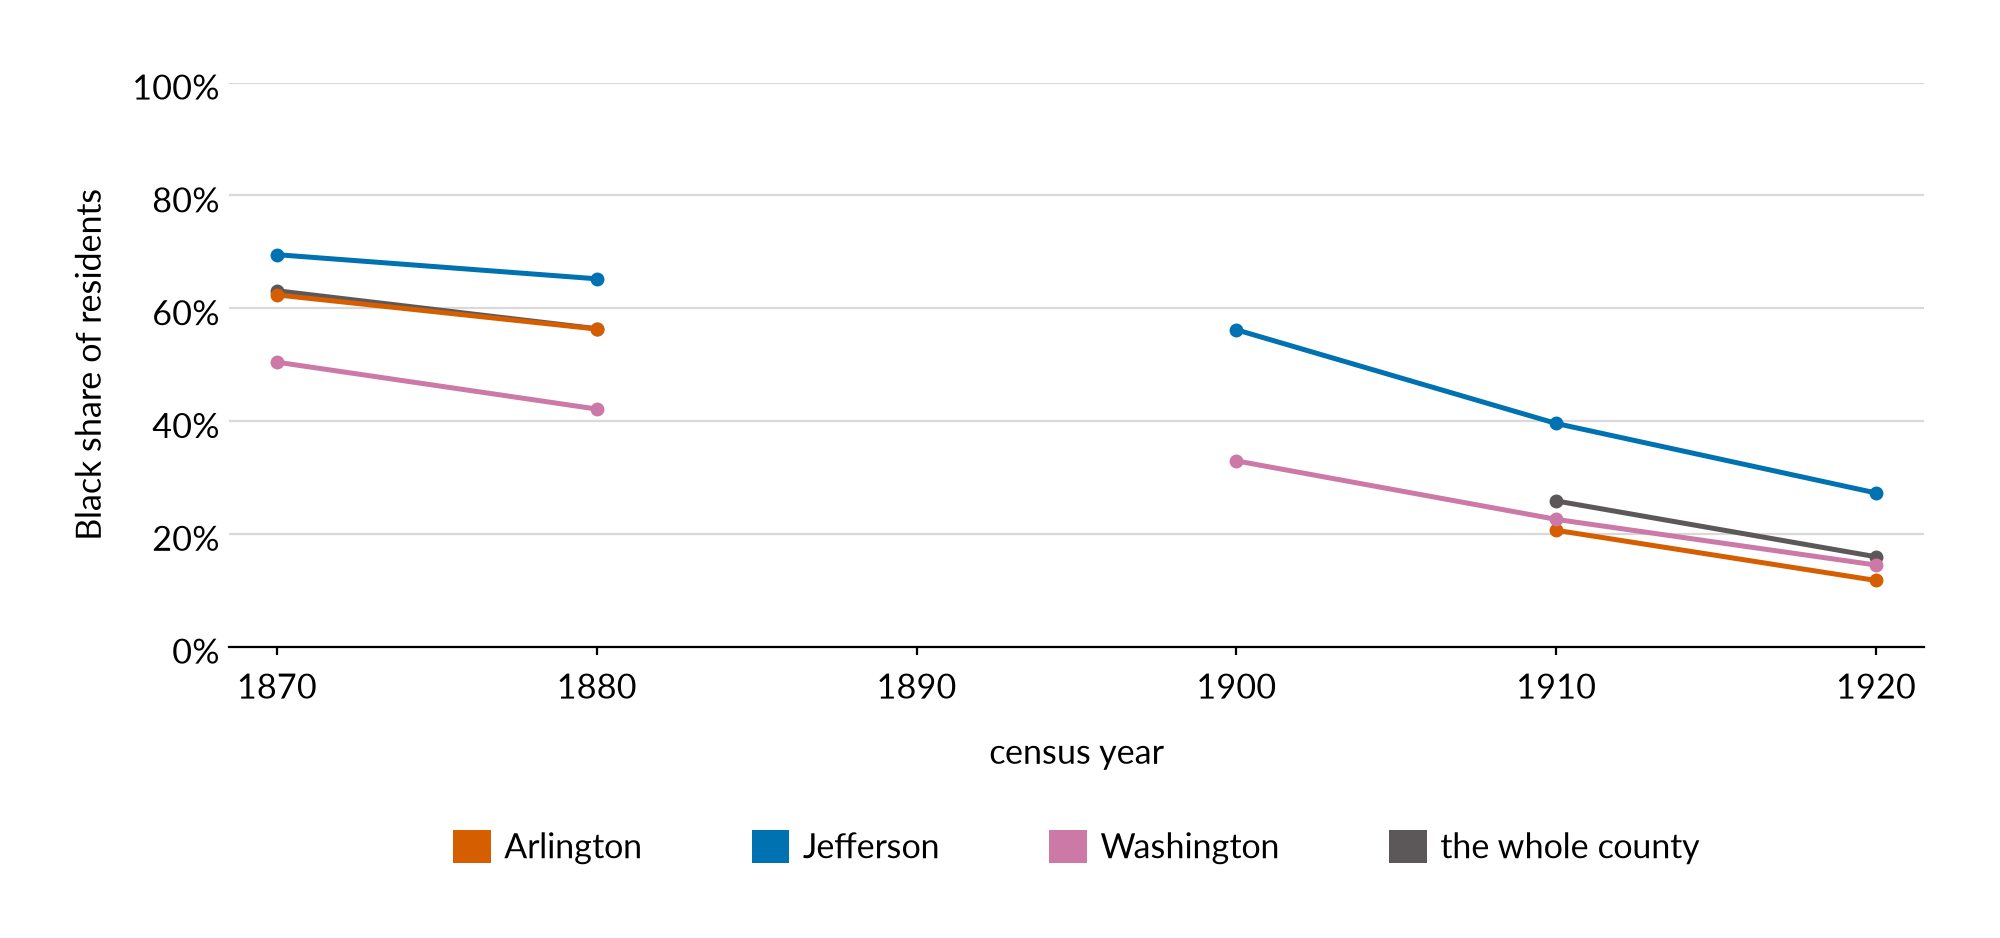
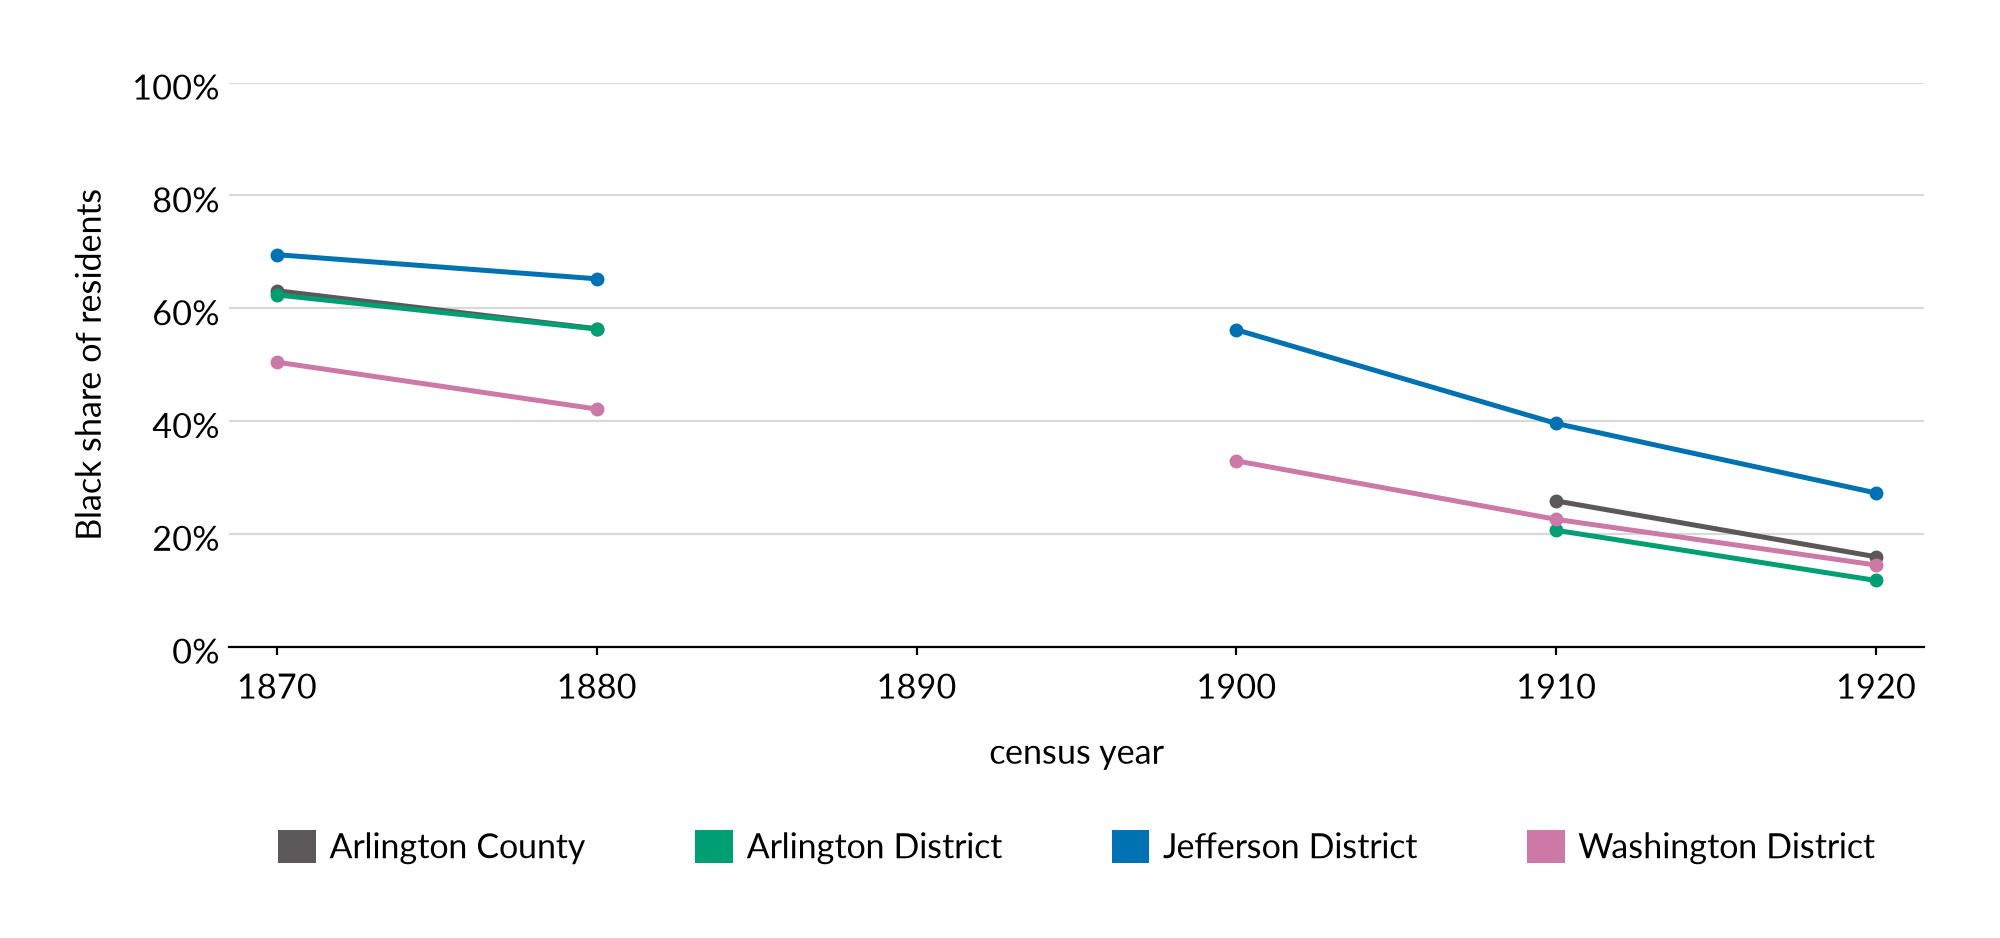
Figure 5: Arlington District takes bluish green, the county leads the legend, and the lines are named Arlington County and the three Districts

diff --git a/style/style.py b/style/style.py
@@ -123,11 +123,11 @@ RESIDENCE["none"] = ("no location", UNRECORDED)
 # reference: three unordered places, so Okabe-Ito, and the county in the
 # reference neutral the growth and peer figures use. See docs/figures.md.
 DISTRICTS = {
-    "Arlington":  ("Arlington", OKABE_ITO["vermilion"]),
-    "Jefferson":  ("Jefferson", OKABE_ITO["blue"]),
-    "Washington": ("Washington", OKABE_ITO["reddish_purple"]),
+    "Arlington":  ("Arlington District", OKABE_ITO["bluish_green"]),
+    "Jefferson":  ("Jefferson District", OKABE_ITO["blue"]),
+    "Washington": ("Washington District", OKABE_ITO["reddish_purple"]),
 }
-WHOLE_COUNTY = ("the whole county", DARK)
+WHOLE_COUNTY = ("Arlington County", DARK)
 
 PRESIDENT = ("voted for President", DARK)
 CYCLE = {

diff --git a/code/analysis/residents_by_district_race.py b/code/analysis/residents_by_district_race.py
@@ -50,6 +50,6 @@ for profile in style.PROFILES:
     charts.lines(ax, s.index.to_numpy(), charts.series(s, style.DISTRICTS))
     charts.shares(ax, label="Black share of residents")
     charts.years(ax, int(s.index.min()), int(s.index.max()), step=10)
-    charts.legend(fig, {**{l: c for l, c in style.DISTRICTS.values()},
-                        style.WHOLE_COUNTY[0]: style.WHOLE_COUNTY[1]})
+    charts.legend(fig, {style.WHOLE_COUNTY[0]: style.WHOLE_COUNTY[1],
+                        **{l: c for l, c in style.DISTRICTS.values()}})
     paths.save(fig, profile)

diff --git a/paper/punchlist.md b/paper/punchlist.md
@@ -19,7 +19,6 @@ stays, with a one-line reason under it.
 - Figure 3 (county by race) legend: consider alphabetical order (Asian & Pacific Islander first), since nothing says why Black comes first. The figures skill says a legend follows stacking order, and docs/figures.md sets the stack with the largest group on top; if the legend goes alphabetical, decide whether the stack does too, and apply the same rule to Figure 4 and the gender figure.
 - Race: restructure the Board half around the question. Preview the argument: here are the forces that may have been at work (the hypotheses), then investigate each. "Disfranchisement weighs most" is a terrible sentence; no sentence of that shape anywhere.
 - A map of the three magisterial districts is needed, perhaps on the same page as Figure 5 (Black share by district). A new figure; needs a boundary source (docs/residents.md has what places each census's enumeration districts).
-- Figure 5 legend order: Arlington County, Arlington District, Jefferson District, Washington District. Arlington District must not be orange or vermilion, which marks the county as a whole elsewhere (the per-seat line, the peer figures); pick another Okabe-Ito hue in style.DISTRICTS and docs/figures.md.
 - Age: Figures 7 and 8 (county by age; Board by age) go on the same page so they compare directly.
 - Age: soften the Board half. Be cautious about saying the Board is not representative by age: no one under 18 can serve, so the comparison base is adults (or eligible voters), and age correlates with knowledge and professional skill, so the claim needs a conversation before it is made strongly. If the claim stays, it needs a figure that makes the comparison directly, probably in a different format from the two now in the section. (Decision; tracker row age-board-against-county.)
 - A.6 Politics may not earn its place as a section. Party likely belongs in the election-method section; turnout, at least before 1932, may belong in Race, where it has to show that voter suppression meant fewer people were choosing at all. Treat A.6 as a holding pen until those homes exist. (Structural; with the election-method decision, tracker row election-method-section.)

diff --git a/docs/figures.md b/docs/figures.md
@@ -123,10 +123,19 @@ a rank. A figure never defines a ramp of its own.
   the palette's other oranges and greys already mean a party, the residual
   or no evidence.
 - **The magisterial districts.** Three unordered places, so Okabe-Ito:
-  Arlington vermilion, Jefferson blue, Washington reddish purple. The county
+  Arlington District bluish green, Jefferson District blue, Washington
+  District reddish purple. Arlington District is not vermilion or orange,
+  which mark the county as a whole elsewhere (vermilion the per-seat line
+  and Arlington among its peers) and a Black member or candidate on the race
+  charts; of the hues left, bluish green sits furthest from the blue beside
+  it, where sky blue would read as a shade of it and yellow disappears as a
+  line on white. As with blue and reddish purple, the reuse of a category's
+  hue costs nothing because the lines are named in the legend. The county
   behind them takes the dark grey the growth and peer figures use for a
   reference series, because it is not a fourth district but the thing the
-  three are being read against. `style.DISTRICTS` and `style.WHOLE_COUNTY`.
+  three are being read against; it leads the legend as Arlington County, and
+  the districts follow in alphabetical order. `style.DISTRICTS` and
+  `style.WHOLE_COUNTY`.
 - **Peers.** Cities dark grey, counties the sand stroke, Arlington the
   per-seat vermilion. The two neutrals are close on purpose: the kind of
   government is context, and a second saturated hue would compete with
